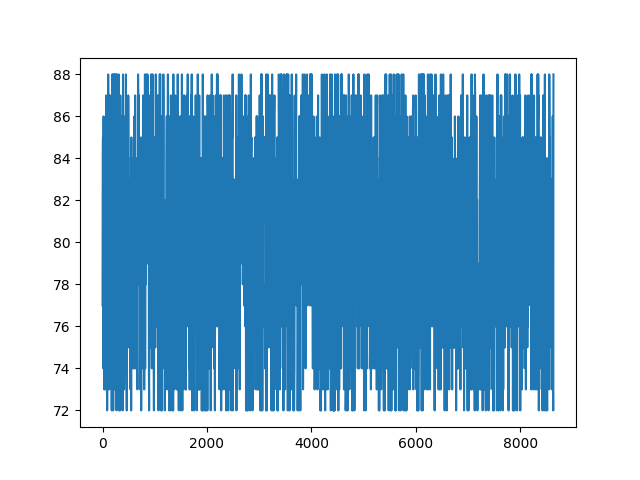
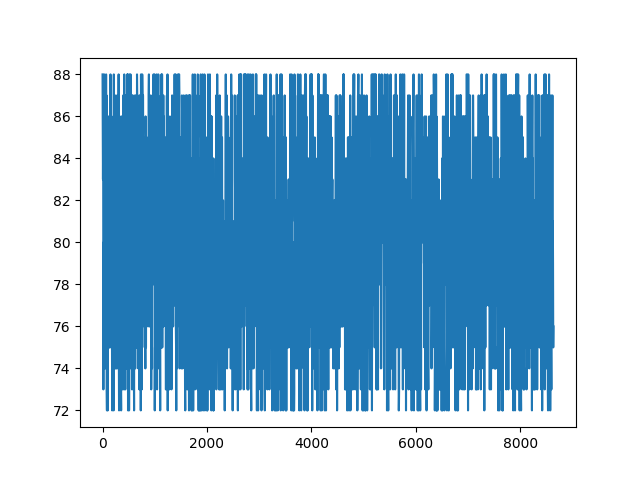
add: add new functions

Changed region(s): [[0.1562, 0.5938, 0.875, 0.875], [0.1562, 0.125, 0.875, 0.4375]]

diff --git a/heartbeat_exercise.py b/heartbeat_exercise.py
@@ -9,7 +9,6 @@ class exercise_heart():
         heartrate_list: List,
         time_day: int, 
         window: int,
-        flow_variance: float
     ):
         '''explanation of parameters
 
@@ -20,8 +19,8 @@ class exercise_heart():
         actual_time_second = 3600*24*time_day  # actual time in seconds
         length = int(actual_time_second/window)
         for i in range(0,length):
-            heartrate_list.append(random.randint(heart_average*0.9, heart_average*1.1))
-            ''' here set the value of variance to +- 10% of possible average
+            heartrate_list.append(random.randint(heart_average*1.2, heart_average*1.5))
+            ''' here set the value of variance to above 50% of possible average
             '''
 
         return (list(heartrate_list), length)
@@ -31,8 +30,8 @@ if __name__ == "__main__":
     heartrate_list = list() # create a list that is empty
     time_day = 0.1 # 2 days
     window = 4 # 4 seconds
-    normal_heart = normal_heart()
-    heartrate_normal, time_length = normal_heart.normal_heartbeat(
+    exercise_heart = exercise_heart()
+    heartrate_normal, time_length = exercise_heart.exercise_heartbeat(
         heart_average, 
         heartrate_list, 
         time_day, window
@@ -41,5 +40,5 @@ if __name__ == "__main__":
     plt.figure()
     plt.plot(time_x, heartrate_normal)
     plt.show()
-    plt.savefig('a.png')
+    plt.savefig('./final_output/exercise.png')
     #plt.plot(time_x, np.transpose(final))z

diff --git a/one_day_heartbeat.py b/one_day_heartbeat.py
@@ -1,0 +1,52 @@
+import random
+from typing import List
+from collections import defaultdict
+
+class one_day():
+    def possibilty_heartrate(
+        self,
+        arr1,
+        arr2,
+    ):
+        assert len(arr1) == len(arr2), "Length does not match."
+        assert sum(arr2) == 1 , "Total rate is not 1."
+
+        sup_list = [len(str(i).split(".")[-1]) for i in arr2]
+        top = 10 ** max(sup_list)
+        new_rate = [int(i*top) for i in arr2]
+        rate_arr = []
+        for i in range(1,len(new_rate)+1):
+            rate_arr.append(sum(new_rate[:i]))
+            rand = random.randint(1,top)
+            data = None
+        for i in range(len(rate_arr)):
+            if rand <= rate_arr[i]:
+                data = arr1[i]
+                break
+        return data
+
+    def heartbeat_oneday():
+        '''full sleep cycle assume to be a random number of 90-110, which is 1.5 - 1.8h
+
+        https://my.clevelandclinic.org/health/articles/12148-sleep-basics
+        '''
+
+        #assume that a cycle of a day starts at 8:00 when the first activity would not be sleeping
+
+        return 0
+
+if __name__ == "__main__":
+    one = one_day();
+    arr = [0,1,2]
+    arr2 = [0.2,0.5,0.3]
+    list1 = list();   
+    for i in range(10000):
+        list1.append(one.possibilty_heartrate(arr,arr2))
+
+    counter = defaultdict(int)
+    for number in list1:
+        counter[number]+=1
+    print (counter)
+
+        
+    

diff --git a/heartbeat_normal.py b/heartbeat_normal.py
@@ -7,7 +7,7 @@ class normal_heart():
         self,
         heart_average: int,
         heartrate_list: List,
-        time_day: int, 
+        time_hour: int, 
         window: int,
         flow_variance: float
     ):
@@ -17,7 +17,7 @@ class normal_heart():
         here the window is the time interval that is expected in seconds
         '''   
 
-        actual_time_second = 3600*24*time_day  # actual time in seconds
+        actual_time_second = 3600*time_hour  # actual time in seconds
         length = int(actual_time_second/window)
         for i in range(0,length):
             heartrate_list.append(random.randint(heart_average*(1-flow_variance), heart_average*(1+flow_variance)))
@@ -29,13 +29,13 @@ class normal_heart():
 if __name__ == "__main__":
     heart_average = 80 # assume that average heart rate is 
     heartrate_list = list() # create a list that is empty
-    time_day = 0.1 # 2 days
+    time_hour = 0.1 # 2 days
     window = 4 # 4 seconds
     normal_heart = normal_heart()
     heartrate_normal, time_length = normal_heart.normal_heartbeat(
         heart_average, 
         heartrate_list, 
-        time_day, 
+        time_hour, 
         window,
         0.1, # assume 10% varying of heartbeat data
     )

diff --git a/heartbeat_main.py b/heartbeat_main.py
@@ -1,9 +1,10 @@
 #! /usr/bin/python3
 import matplotlib.pyplot as plt
 from heartbeat_normal import normal_heart
+import os
 
 if __name__ == "__main__":
-    heart_average = 80 # assume that average heart rate is 
+    heart_average = 80 # assume that average heart rate is 80
     heartrate_list = list() # create a list that is empty
     time_day = 0.1 # 2 days
     window = 4 # 4 seconds
@@ -19,4 +20,5 @@ if __name__ == "__main__":
     plt.figure()
     plt.plot(time_x, heartrate_normal)
     plt.show()
+    os.system("rm ./final_output/*")
     plt.savefig('./final_output/final_simulation.png')
